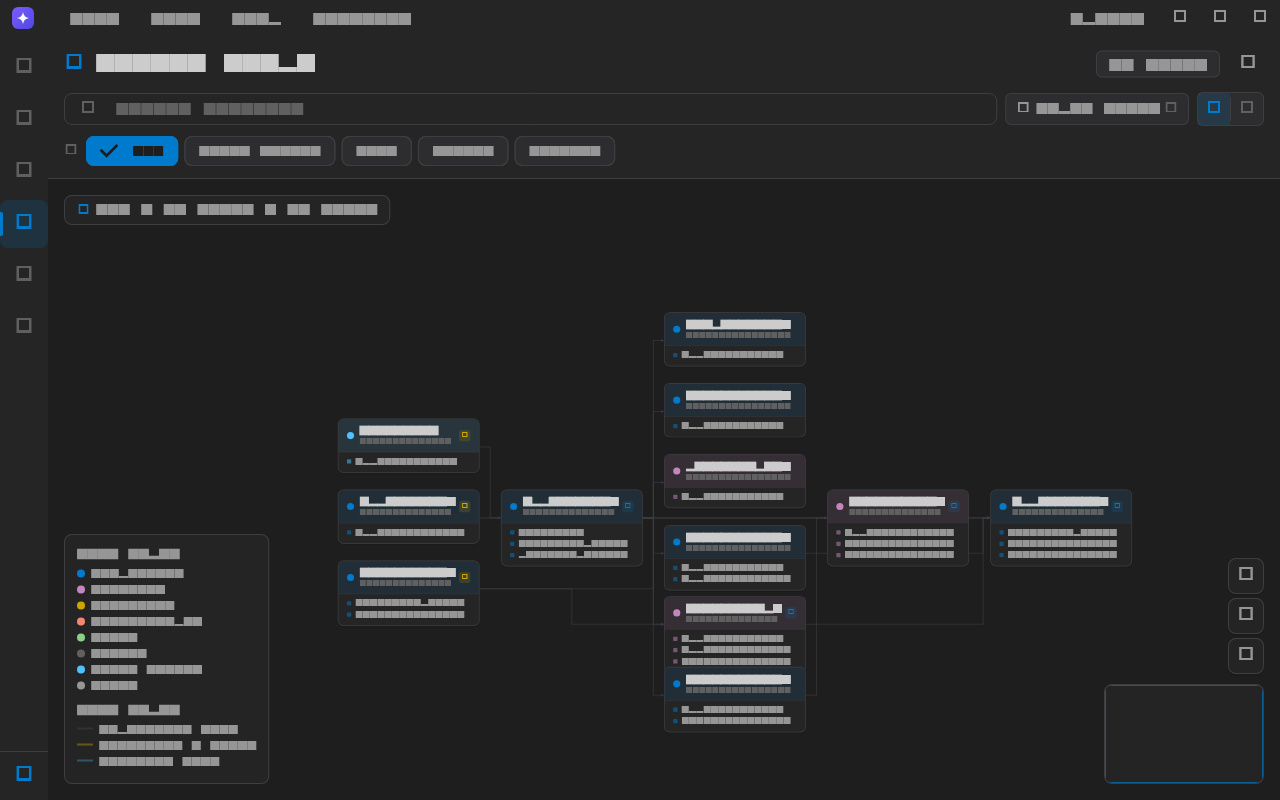
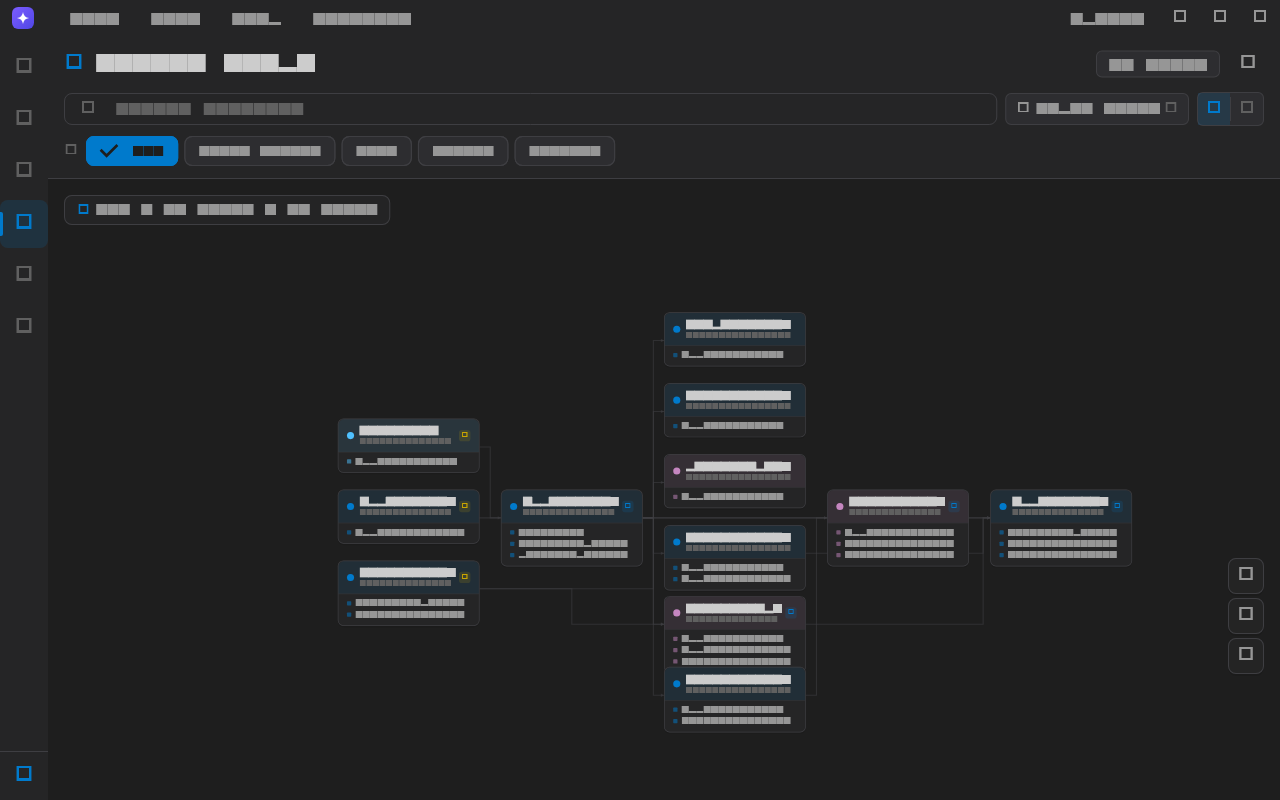
fix: neural graph — remove minimap+legend, restore card clicks
- Remove the minimap (bottom-right) and node-types legend (bottom-left)
- Root cause of broken card clicks: an outer GestureDetector onTap around
  the canvas won the gesture arena over card taps (ancestor recognizer is
  added first), so every click fired the deselect handler instead of onSelect
- Fix: outer wrapper keeps only double-tap zoom (no onTap); background
  deselect moved to a raw Listener layer BEHIND the cards — empty canvas
  deselects, card taps hit the card
- Test: background tap must not select (guards the regression)

Changed region(s): [[0.0625, 0.6562, 0.2188, 0.9688]]

diff --git a/mobile/lib/features/graph/presentation/screens/graph_screen.dart b/mobile/lib/features/graph/presentation/screens/graph_screen.dart
@@ -343,16 +343,12 @@ class _GraphScreenState extends ConsumerState<GraphScreen> {
                         // Graph canvas — InteractiveViewer handles pan/zoom on background
                         RepaintBoundary(
                           child: GestureDetector(
-                            // Click on empty background clears the selection
-                            onTap: () {
-                              if (_selectedNode != null || _hoveredNode != null) {
-                                setState(() {
-                                  _selectedNode = null;
-                                  _hoveredNode = null;
-                                });
-                              }
-                            },
-                            // Double-click to zoom in at the cursor
+                            // Double-click to zoom in at the cursor. NOTE: this
+                            // wrapper must NOT have an onTap — an outer tap
+                            // recognizer wins the gesture arena over card taps
+                            // (ancestor added first), which would break clicking
+                            // cards. Background deselect lives on a layer
+                            // BEHIND the cards instead (see below).
                             onDoubleTapDown: (details) =>
                                 _zoomAtPoint(details.localPosition, 1.5),
                             child: InteractiveViewer(
@@ -374,6 +370,24 @@ class _GraphScreenState extends ConsumerState<GraphScreen> {
                             child: Stack(
                               clipBehavior: Clip.none,
                               children: [
+                                // Background tap layer — sits BEHIND nodes so
+                                // clicking empty canvas deselects, while card
+                                // taps are caught by the cards on top. Using a
+                                // raw Listener avoids any gesture-arena conflict
+                                // with the card tap recognizers.
+                                Positioned.fill(
+                                  child: Listener(
+                                    onPointerDown: (_) {
+                                      if (_selectedNode != null || _hoveredNode != null) {
+                                        setState(() {
+                                          _selectedNode = null;
+                                          _hoveredNode = null;
+                                        });
+                                      }
+                                    },
+                                    child: const SizedBox.expand(),
+                                  ),
+                                ),
                                 // Module bands (Modules facet only)
                                 if (_facet == GraphFacet.modules)
                                   Positioned.fill(
@@ -493,19 +507,6 @@ class _GraphScreenState extends ConsumerState<GraphScreen> {
                             ],
                           ),
                         ),
-                        // Minimap (bottom-right corner)
-                        Positioned(
-                          right: 16,
-                          bottom: 16,
-                          child: _Minimap(
-                            canvasWidth: canvasWidth,
-                            canvasHeight: canvasHeight,
-                            nodePositions: _nodePositions,
-                            visibleFiles: visibleFiles,
-                            controller: _transformController,
-                            viewportSize: viewportSize,
-                          ),
-                        ),
                         // Facet summary (top-left, shows what this slice contains)
                         Positioned(
                           left: 16,
@@ -532,12 +533,6 @@ class _GraphScreenState extends ConsumerState<GraphScreen> {
                               ],
                             ),
                           ),
-                        ),
-                        // Legend (bottom-left corner)
-                        Positioned(
-                          left: 16,
-                          bottom: 16,
-                          child: _Legend(visibleTypes: _visibleTypes),
                         ),
                       ],
                     );
@@ -1541,197 +1536,6 @@ class _ModuleBandPainter extends CustomPainter {
   @override
   bool shouldRepaint(covariant _ModuleBandPainter oldDelegate) =>
       oldDelegate.bands != bands;
-}
-
-// ==================== MINIMAP ====================
-
-class _Minimap extends StatelessWidget {
-  final double canvasWidth;
-  final double canvasHeight;
-  final Map<String, Offset> nodePositions;
-  final List<IndexedFile> visibleFiles;
-  final TransformationController controller;
-  final Size viewportSize;
-
-  const _Minimap({
-    required this.canvasWidth,
-    required this.canvasHeight,
-    required this.nodePositions,
-    required this.visibleFiles,
-    required this.controller,
-    required this.viewportSize,
-  });
-
-  @override
-  Widget build(BuildContext context) {
-    const minimapWidth = 160.0;
-    const minimapHeight = 100.0;
-    final scaleX = minimapWidth / canvasWidth.clamp(1.0, double.infinity);
-    final scaleY = minimapHeight / canvasHeight.clamp(1.0, double.infinity);
-    final minimapScale = math.min(scaleX, scaleY);
-
-    // Only the minimap repaints on pan/zoom — no full-screen rebuilds
-    return ValueListenableBuilder<Matrix4>(
-      valueListenable: controller,
-      builder: (context, matrix, _) {
-        final viewScale = matrix.getMaxScaleOnAxis();
-        final translation = matrix.getTranslation();
-        final viewOffset = Offset(translation.x, translation.y);
-        return Container(
-          width: minimapWidth,
-          height: minimapHeight,
-          decoration: BoxDecoration(
-            color: AppColors.surface.withValues(alpha: 0.9),
-            borderRadius: BorderRadius.circular(8),
-            border: Border.all(color: AppColors.border),
-          ),
-          child: ClipRRect(
-            borderRadius: BorderRadius.circular(8),
-            child: CustomPaint(
-              painter: _MinimapPainter(
-                nodePositions: nodePositions,
-                files: visibleFiles,
-                scale: minimapScale,
-                viewScale: viewScale,
-                viewOffset: viewOffset,
-                viewportSize: viewportSize,
-              ),
-            ),
-          ),
-        );
-      },
-    );
-  }
-}
-
-class _MinimapPainter extends CustomPainter {
-  final Map<String, Offset> nodePositions;
-  final List<IndexedFile> files;
-  final double scale;
-  final double viewScale;
-  final Offset viewOffset;
-  final Size viewportSize;
-
-  _MinimapPainter({
-    required this.nodePositions,
-    required this.files,
-    required this.scale,
-    required this.viewScale,
-    required this.viewOffset,
-    required this.viewportSize,
-  });
-
-  @override
-  void paint(Canvas canvas, Size size) {
-    final dotPaint = Paint()..style = PaintingStyle.fill;
-
-    for (final file in files) {
-      final pos = nodePositions[file.path];
-      if (pos == null) continue;
-      dotPaint.color = AppColors.primary.withValues(alpha: 0.6);
-      canvas.drawCircle(Offset(pos.dx * scale, pos.dy * scale), 2, dotPaint);
-    }
-
-    // Draw the visible viewport rectangle
-    final rectPaint = Paint()
-      ..style = PaintingStyle.stroke
-      ..strokeWidth = 1.5
-      ..color = AppColors.primary.withValues(alpha: 0.9);
-
-    // Convert viewport screen bounds to canvas world coords: world = (screen - offset) / scale
-    final leftWorld = (0 - viewOffset.dx) / viewScale;
-    final topWorld = (0 - viewOffset.dy) / viewScale;
-    final rightWorld = (viewportSize.width - viewOffset.dx) / viewScale;
-    final bottomWorld = (viewportSize.height - viewOffset.dy) / viewScale;
-
-    final rect = Rect.fromLTRB(
-      (leftWorld * scale).clamp(0, size.width),
-      (topWorld * scale).clamp(0, size.height),
-      (rightWorld * scale).clamp(0, size.width),
-      (bottomWorld * scale).clamp(0, size.height),
-    );
-    canvas.drawRect(rect, rectPaint);
-  }
-
-  @override
-  bool shouldRepaint(covariant _MinimapPainter oldDelegate) {
-    return oldDelegate.viewScale != viewScale ||
-        oldDelegate.viewOffset != viewOffset ||
-        oldDelegate.viewportSize != viewportSize;
-  }
-}
-
-// ==================== LEGEND ====================
-
-class _Legend extends StatelessWidget {
-  final Set<String> visibleTypes;
-
-  const _Legend({required this.visibleTypes});
-
-  @override
-  Widget build(BuildContext context) {
-    return Container(
-      padding: const EdgeInsets.all(12),
-      decoration: BoxDecoration(
-        color: AppColors.surface.withValues(alpha: 0.9),
-        borderRadius: BorderRadius.circular(8),
-        border: Border.all(color: AppColors.border),
-      ),
-      child: Column(
-        crossAxisAlignment: CrossAxisAlignment.start,
-        mainAxisSize: MainAxisSize.min,
-        children: [
-          const Text('Node Types', style: TextStyle(fontSize: 10, fontWeight: FontWeight.w600, color: AppColors.textSecondary)),
-          const SizedBox(height: 6),
-          ...nodeTypeColors.entries.where((e) => visibleTypes.contains(e.key)).map((entry) {
-            return Padding(
-              padding: const EdgeInsets.only(bottom: 3),
-              child: Row(
-                mainAxisSize: MainAxisSize.min,
-                children: [
-                  Container(width: 8, height: 8, decoration: BoxDecoration(color: entry.value, shape: BoxShape.circle)),
-                  const SizedBox(width: 6),
-                  Text(nodeTypeLabels[entry.key] ?? entry.key, style: const TextStyle(fontSize: 9, color: AppColors.textSecondary)),
-                ],
-              ),
-            );
-          }),
-          const SizedBox(height: 8),
-          const Text('Edge Types', style: TextStyle(fontSize: 10, fontWeight: FontWeight.w600, color: AppColors.textSecondary)),
-          const SizedBox(height: 6),
-          _LegendEdge(color: AppColors.border.withValues(alpha: 0.55), label: 'Dependency flow'),
-          _LegendEdge(color: AppColors.warning.withValues(alpha: 0.4), label: 'Back-edge / cycle'),
-          _LegendEdge(color: AppColors.info.withValues(alpha: 0.3), label: 'Vertical link'),
-        ],
-      ),
-    );
-  }
-}
-
-class _LegendEdge extends StatelessWidget {
-  final Color color;
-  final String label;
-
-  const _LegendEdge({required this.color, required this.label});
-
-  @override
-  Widget build(BuildContext context) {
-    return Padding(
-      padding: const EdgeInsets.only(bottom: 3),
-      child: Row(
-        mainAxisSize: MainAxisSize.min,
-        children: [
-          Container(
-            width: 16,
-            height: 0,
-            decoration: BoxDecoration(border: Border(bottom: BorderSide(color: color, width: 2))),
-          ),
-          const SizedBox(width: 6),
-          Text(label, style: const TextStyle(fontSize: 9, color: AppColors.textSecondary)),
-        ],
-      ),
-    );
-  }
 }
 
 // ==================== CONTROL BUTTON ====================

diff --git a/mobile/test/screenshots/screenshots_test.dart b/mobile/test/screenshots/screenshots_test.dart
@@ -200,6 +200,22 @@ void main() {
     await expectLater(find.byType(AppShell), matchesGoldenFile('goldens/graph.png'));
   });
 
+  testWidgets('05b - graph renders cards; background tap does not select', (tester) async {
+    final container = await _buildContainer();
+    await _pumpApp(tester, container);
+    container.read(navigationProvider.notifier).setMode(AppMode.graph);
+    await tester.pumpAndSettle(const Duration(milliseconds: 500));
+
+    // Cards render (file names visible in the mesh)
+    expect(find.text('main.dart'), findsWidgets);
+
+    // Tap a clearly-empty area (top-left) — must not throw and must not select
+    await tester.tapAt(const Offset(15, 200));
+    await tester.pumpAndSettle();
+    expect(find.byTooltip('Focus on selection'), findsNothing,
+        reason: 'background tap must not leave a selection');
+  });
+
   testWidgets('06 - review (findings)', (tester) async {
     final container = await _buildContainer();
     await _pumpApp(tester, container);
